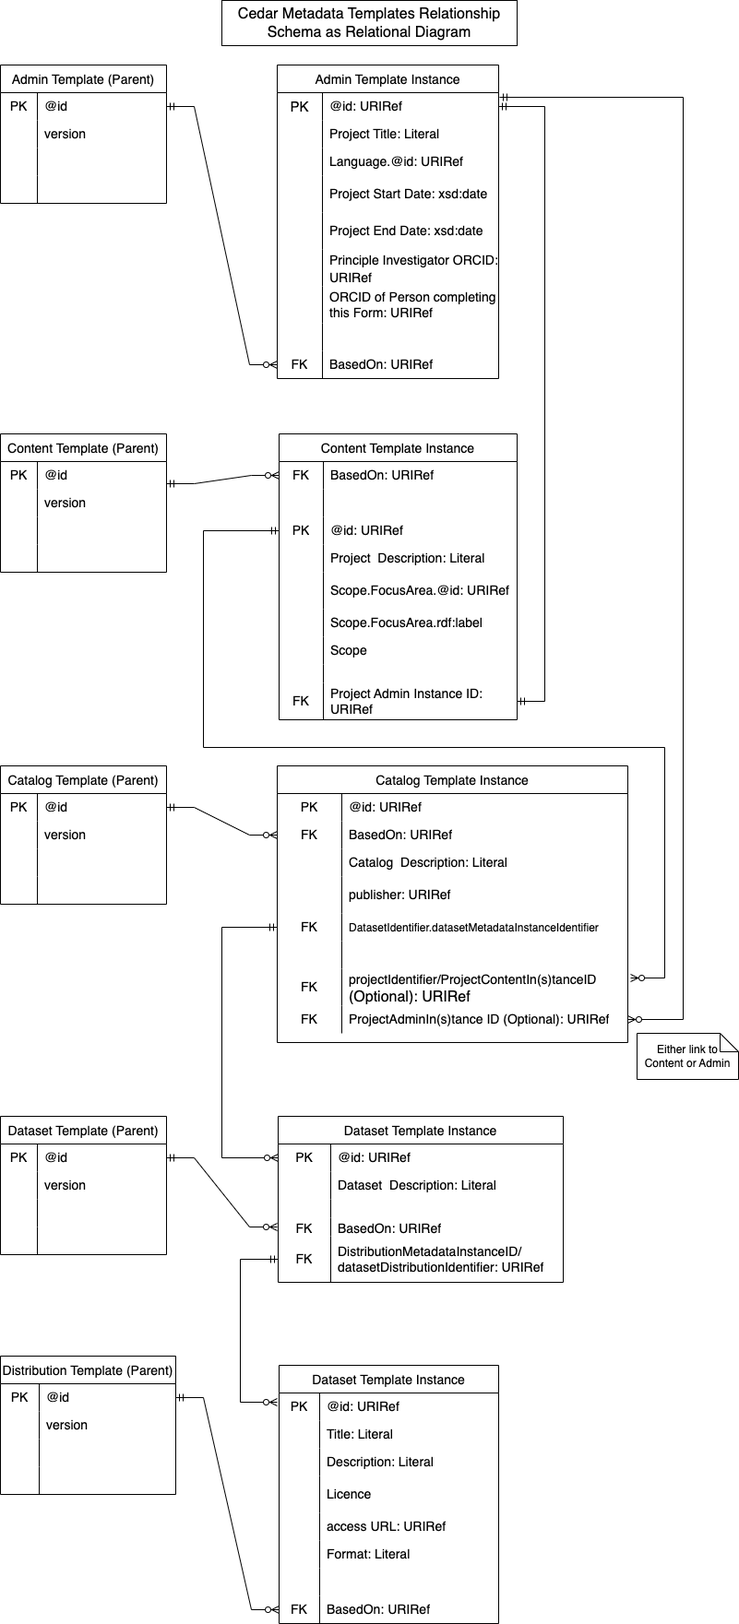
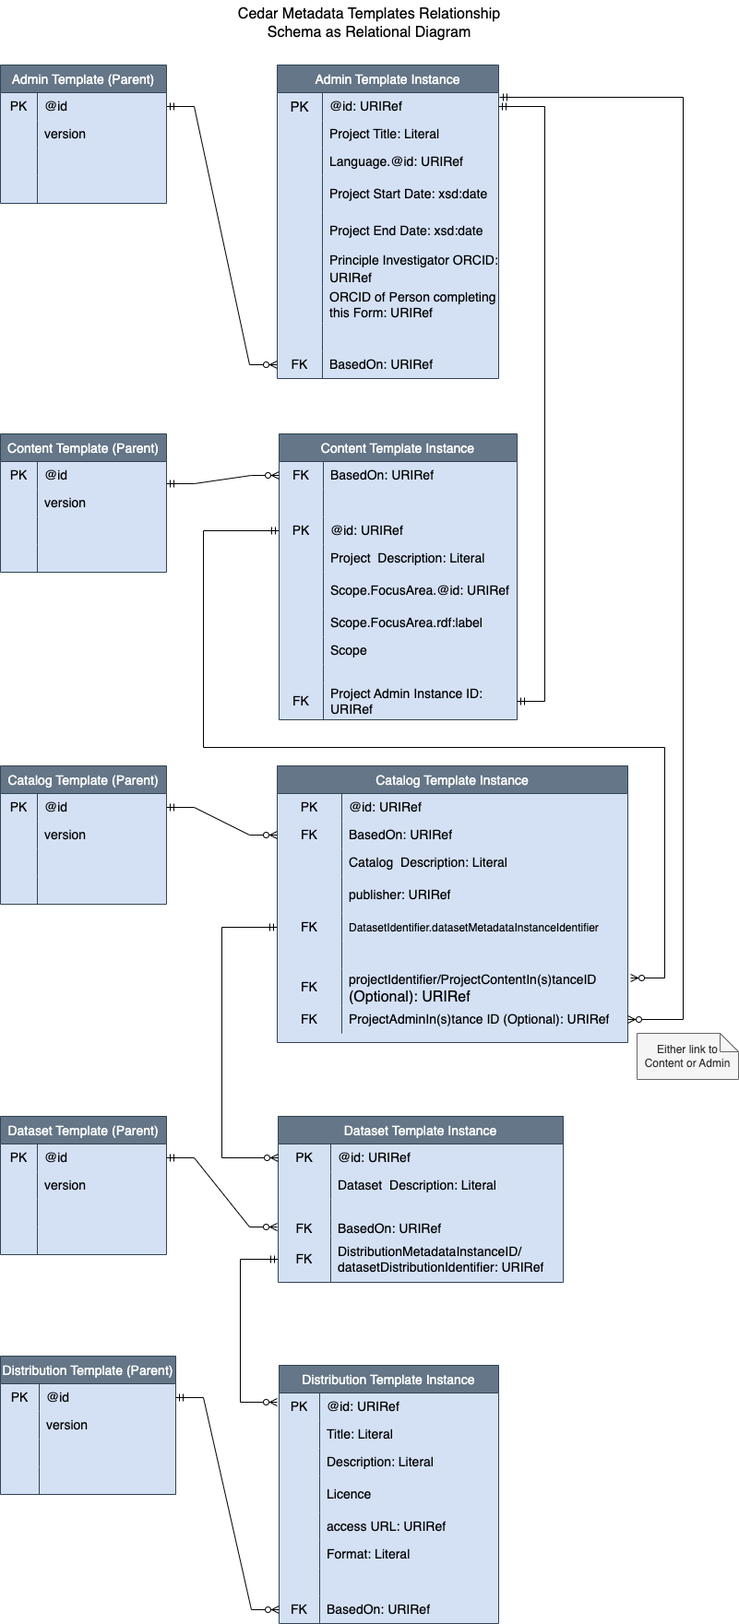
add catalog and dataset mapping, small changes to Cedar schema

diff --git a/dcat_exports/README.md b/dcat_exports/README.md
@@ -10,22 +10,36 @@
 
 ### Mapping
 
-| Type                      | Health-RI Class | Health-ri Property URI | Source field                                               | Transformation rule/Comment                                                                                                                                                                                                                                                                                                                                                                                                                                                                                  |
-|---------------------------|-----------------|------------------------|------------------------------------------------------------|--------------------------------------------------------------------------------------------------------------------------------------------------------------------------------------------------------------------------------------------------------------------------------------------------------------------------------------------------------------------------------------------------------------------------------------------------------------------------------------------------------------|
-| Top-level catalog, portal | Catalog         |                        |                                                            | Portal Project Overview page with base URL from configuration file                                                                                                                                                                                                                                                                                                                                                                                                                                           |
-|                           |                 | dcterms:description    |                                                            | Hard-coded to """Health-RI launched the Dutch COVID-19 Data Support Programme to support investigators and health care professionals with tools and services in their search for ways to overcome the pandemic and its' health consequences. ) To facilitate and stimulate an integrated health data infrastructure, Health-RI facilitates investigators by connecting communities, providing data services and tools, and presenting an overview of COVID-19 related initiatives, provided on this site.""" |
-|                           |                 | dcterms:issued         |                                                            | Export date in `xsd:date` format                                                                                                                                                                                                                                                                                                                                                                                                                                                                             |
-|                           |                 | dcterms:title          |                                                            | Hard-codded to `COVID-19 related data initiatives - Project overview`                                                                                                                                                                                                                                                                                                                                                                                                                                        |
-|                           |                 | dcat:catalog           | `Content Template`.`Scope`.`Focus Area`.`Focus Area`.`@id` | `<Portal Base Link>`.`p/ProjectOverview?focusarea=``<Source field focus area id>`                                                                                                                                                                                                                                                                                                                                                                                                                            |
-|                           |                 | dcat:keyword           |                                                            | Hard-codded to `COVID-19`                                                                                                                                                                                                                                                                                                                                                                                                                                                                                    |
-|                           |                 | foaf:homepage          |                                                            | Portal Project Overview page with base URL from configuration file                                                                                                                                                                                                                                                                                                                                                                                                                                           |                                                                                                                                                                                                                                                                                                                                                                                                                                                                                                             |
-| Project level             | Dataset         |                        |                                                            |                                                                                                                                                                                                                                                                                                                                                                                                                                                                                                              |
-|                           |                 | dcterms:identifier     |                                                            |                                                                                                                                                                                                                                                                                                                                                                                                                                                                                                              |
-|                           |                 | dcterms:description    |                                                            |                                                                                                                                                                                                                                                                                                                                                                                                                                                                                                              |
-|                           |                 | dcterms:temporal       |                                                            |                                                                                                                                                                                                                                                                                                                                                                                                                                                                                                              |
-|                           |                 |                        |                                                            |                                                                                                                                                                                                                                                                                                                                                                                                                                                                                                              |
-
-
+| Type                      | Health-RI Class | Health-ri Property URI          | Required    | Source field                                                                                                                                                                                                                      | Transformation rule/Comment                                                                                                                                                                                                                                                                                                                                                                                                                                                                               |
+|---------------------------|-----------------|---------------------------------|-------------|-----------------------------------------------------------------------------------------------------------------------------------------------------------------------------------------------------------------------------------|-----------------------------------------------------------------------------------------------------------------------------------------------------------------------------------------------------------------------------------------------------------------------------------------------------------------------------------------------------------------------------------------------------------------------------------------------------------------------------------------------------------|
+| Top-level catalog, portal | Catalog         | rdf:type                        | mandatory   |                                                                                                                                                                                                                                   | `<Portal Base Link>`/`p/ProjectOverview` where `<Portal Base Link>` is a base URL from configuration file as `dcat:Catalog`                                                                                                                                                                                                                                                                                                                                                                               |
+|                           |                 | dcterms:title                   | mandatory   |                                                                                                                                                                                                                                   | Hardcoded to `COVID-19 related data initiatives - Project overview`                                                                                                                                                                                                                                                                                                                                                                                                                                       |
+|                           |                 | dcterms:description             | mandatory   |                                                                                                                                                                                                                                   | Hardcoded to ```Health-RI launched the Dutch COVID-19 Data Support Programme to support investigators and health care professionals with tools and services in their search for ways to overcome the pandemic and its' health consequences. To facilitate and stimulate an integrated health data infrastructure, Health-RI facilitates investigators by connecting communities, providing data services and tools, and presenting an overview of COVID-19 related initiatives, provided on this site.``` |
+|                           |                 | dcterms:issued                  | mandatory   |                                                                                                                                                                                                                                   | Export date in `xsd:date` format                                                                                                                                                                                                                                                                                                                                                                                                                                                                          |
+|                           |                 | dcat:catalog                    |             | `Cedar`.`Content Template Instance`.`Scope`.`Focus Area`.`Focus Area`.`@id`                                                                                                                                                       | `<Portal Base Link>`/`p/ProjectOverview?focusarea=<Source field focus area id>`                                                                                                                                                                                                                                                                                                                                                                                                                           |
+|                           |                 | dcat:keyword                    |             |                                                                                                                                                                                                                                   | Hardcoded to `COVID-19`                                                                                                                                                                                                                                                                                                                                                                                                                                                                                   |
+|                           |                 | foaf:homepage                   | mandatory   |                                                                                                                                                                                                                                   | `<Portal Base Link>`/`p/ProjectOverview`                                                                                                                                                                                                                                                                                                                                                                                                                                                                  |                                                                                                                                                                                                                                                                                                                                                                                                                                                                                                             |
+|
+| Focus area level          | Catalog         | rdf:type                        | mandatory   | `Cedar`.`Content Template Instance`.`Scope`.`Focus Area`.`Focus Area`.`@id`                                                                                                                                                       | `<Portal Base Link>`.`p/ProjectOverview?focusarea=``<Source field focus area id>` as `dcat:Catalog`                                                                                                                                                                                                                                                                                                                                                                                                       |
+|                           |                 | dcterms:title                   | mandatory   | `Cedar`.`Content Template Instance`.`Scope`.`Focus Area`.`Focus Area`.`rdf:label`                                                                                                                                                 |                                                                                                                                                                                                                                                                                                                                                                                                                                                                                                           |
+|                           |                 | dcat:dataset                    |             | Portal Project URL                                                                                                                                                                                                                | Fetch `Project ID` from portal by `Cedar`.`Content Template Instance`.`Scope`.`Project Admin Instance ID`, set to `<Portal Base Link>`/`p/Project`/`<Poject ID>`                                                                                                                                                                                                                                                                                                                                          |
+|                           |                 | dcat:theme                      | mandatory   | `Cedar`.`Content Template Instance`.`Scope`.`Focus Area`.`Focus Area`.`@id`                                                                                                                                                       |                                                                                                                                                                                                                                                                                                                                                                                                                                                                                                           |
+|
+| Project level             | Dataset         | rdf:type                        | mandatory   | Portal Project URL                                                                                                                                                                                                                | Fetch Project `UniqueId` from portal by `Cedar`.`Admin Template Instance`.`@id` as `dcat:Dataset`                                                                                                                                                                                                                                                                                                                                                                                                         |
+|                           |                 | dcterms:identifier              |             | Portal Project `UniqueId`                                                                                                                                                                                                         | Project `UniqueId` as type `xsd:token`                                                                                                                                                                                                                                                                                                                                                                                                                                                                    |
+|                           |                 | dcterms:description             | mandatory   |                                                                                                                                                                                                                                   |                                                                                                                                                                                                                                                                                                                                                                                                                                                                                                           |
+|                           |                 | dcterms:title                   | mandatory   | `Cedar`.`Admin Template Instance`.`Project Information`.`Project Names1`.`Project Title1`.`Project Title`.`@value` and `Cedar`.`Admin Template Instance`.`Project Information`.`Project Names1`.`Project Title1`.`Language`.`@id` | `<Project Title>`@`<split Language.@id by '/' and take last>`                                                                                                                                                                                                                                                                                                                                                                                                                                             |                                                                                                                                                                                                                                                                                                                                                                                                                                                                                                          |
+|                           |                 | dcterms:temporal.rdf:type       | mandatory   |                                                                                                                                                                                                                                   | `dcterms:PeriodOfTime`                                                                                                                                                                                                                                                                                                                                                                                                                                                                                    |
+|                           |                 | dcterms:temporal.dcat:startDate |             | `Cedar`.`Admin Template Instance`.`Funder Information`.`Project Dates`.`(Expected) Start Date of Project`.`@value`                                                                                                                |                                                                                                                                                                                                                                                                                                                                                                                                                                                                                                           |
+|                           |                 | dcterms:temporal.dcat:endDate   |             | `Cedar`.`Admin Template Instance`.`Funder Information`.`Project Dates`.`(Expected) End Date of Project`.`@value`                                                                                                                  |
+|                           |                 | dcterms:creator.rdf:type        | mandatory   |                                                                                                                                                                                                                                   | `v:VCard` or `dcterms:creator`: set to `v:VCard` node in the export as per ByCovid request. To enable that `userinfo_format` parameter passed to [DCATDataSet.to_graph()](../models/bycovid_models.py#L52) is set to `VCARD.VCard`; default value for that parameter is `None` which results in `dcterms:creator` as `rdf:type`                                                                                                                                                                           |
+|                           |                 | dcterms:creator.v:fn            |             | `ORCID API`.`ORCID record`.`person`.`name`                                                                                                                                                                                        | `ORCID record`.`person`.`name`.`given-names`.`value`  `ORCID record`.`person`.`name`.`family-name`.`value`                                                                                                                                                                                                                                                                                                                                                                                                |
+|                           |                 | dcterms:creator.v:hasUID        |             | `Cedar`.`Admin Template Instance`.`ORCID of Person completing this Form`                                                                                                                                                          |
+|                           |                 | dcat:contactPoint.rdf:type      | mandatory   |                                                                                                                                                                                                                                   | `v:VCard`                                                                                                                                                                                                                                                                                                                                                                                                                                                                                                 |
+|                           |                 | dcat:contactPoint.v:fn          | optional    | `ORCID API`.`ORCID record`.`person`.`name`                                                                                                                                                                                        | `ORCID record`.`person`.`name`.`given-names`.`value`  `ORCID record`.`person`.`name`.`family-name`.`value`                                                                                                                                                                                                                                                                                                                                                                                                |
+|                           |                 | dcat:contactPoint.v:hasUID      | conditional | `Cedar`.`Admin Template Instance`.`Principle Investigator ORCID`                                                                                                                                                                  | `v:VCard` or `dcterms:creator`: set to `v:VCard` node in the export as per ByCovid request. To enable that `userinfo_format` parameter passed to [DCATDataSet.to_graph()](../models/bycovid_models.py#L52) is set to `VCARD.VCard`; default value for that parameter is `None` which results in `dcterms:creator` as `rdf:type`                                                                                                                                                                           |
+|                           |                 | dcat:keyword                    |             | `Cedar`.`Content Template Instance`.`Scope`                                                                                                                                                                                       | Walk over tree under `Scope` and add `rdfs:label` of `@value` for each property (`Area Level`, `Care Setting`, `Temporal Scope`, `Population Group`, `Disease`, `Focus Area`.`Other Focus Area`) as keywords                                                                                                                                                                                                                                                                                              |                                                                                                                                                                                                                                                                                                                                                                                                                                                                                                          |
+|                           |                 | dcat:theme                      | mandatory   | `Cedar`.`Content Template Instance`.`Scope`                                                                                                                                                                                       | Walk over tree under `Scope` and add `@id` for each property (`Area Level`, `Care Setting`, `Temporal Scope`, `Population Group`, `Disease`) as theme                                                                                                                                                                                                                                                                                                                                                     |
 
 
 ### Changelog
@@ -33,48 +47,3 @@
 ### v0.1.0
 
 Initial version
-
-
-[//]: # (<https://covid19initiatives.health-ri.nl/p/Project/27866022694524321> a dcat:Dataset ;)
-
-[//]: # (    dcterms:creator [ a v:VCard ;)
-
-[//]: # (            v:fn "Jutte J.C. de Vries" ;)
-
-[//]: # (            v:hasUID <https://orcid.org/0000-0003-2530-6260> ] ;)
-
-[//]: # (    dcterms:description "COVID-19 breakthrough infections and correlates of protection" ;)
-
-[//]: # (    dcterms:identifier "27866022694524321"^^xsd:token ;)
-
-[//]: # (    dcterms:temporal [ a dcterms:PeriodOfTime ;)
-
-[//]: # (            dcat:endDate "2023-11-30"^^xsd:date ;)
-
-[//]: # (            dcat:startDate "2023-02-01"^^xsd:date ] ;)
-
-[//]: # (    dcterms:title "COVID-19 breakthrough infections and correlates of protection"@en ;)
-
-[//]: # (    dcat:contactPoint [ a v:VCard ;)
-
-[//]: # (            v:fn "Jutte J.C. de Vries" ;)
-
-[//]: # (            v:hasUID <https://orcid.org/0000-0003-2530-6260> ] ;)
-
-[//]: # (    dcat:keyword "Follow-up for detection of SARS-CoV-2 breakthrough infections",)
-
-[//]: # (        "elderly overrepresented",)
-
-[//]: # (        "human disease",)
-
-[//]: # (        "no care setting, healthy at inclusion and followed up",)
-
-[//]: # (        "other",)
-
-[//]: # (        "regional" ;)
-
-[//]: # (    dcat:theme <http://purl.org/zonmw/covid19/10006>,)
-
-[//]: # (        <http://purl.org/zonmw/generic/10006>,)
-
-[//]: # (        <http://purl.org/zonmw/generic/10095> .)
